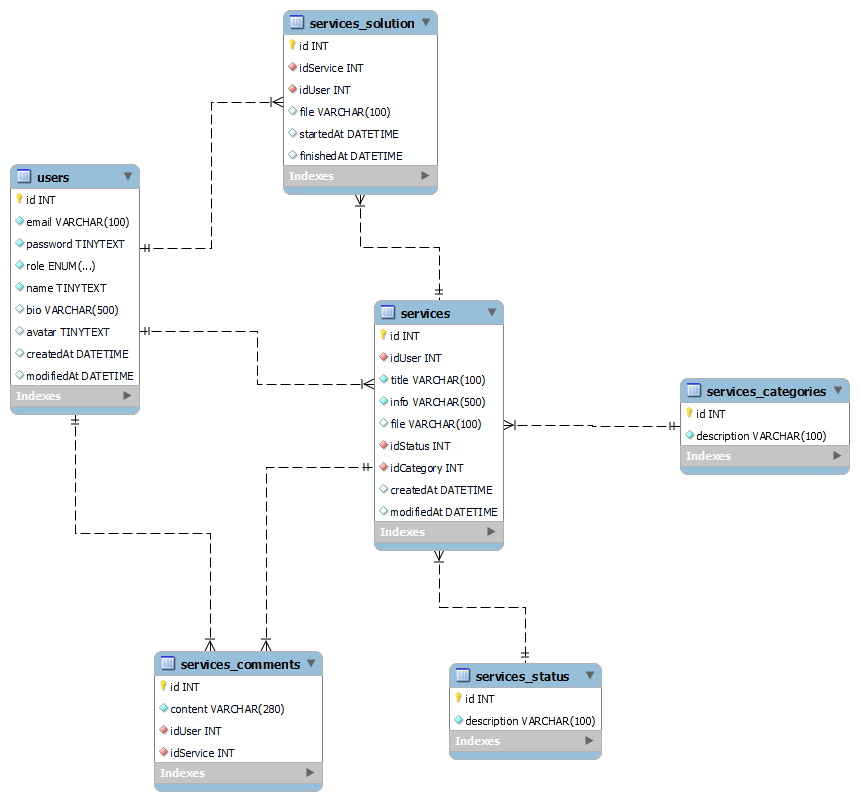
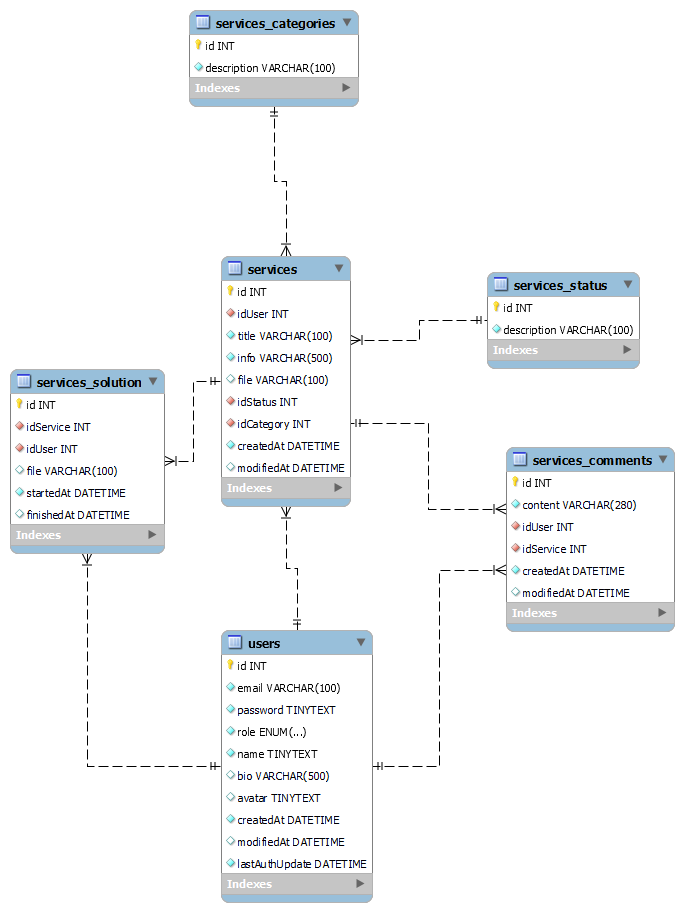
Añadiendo algunas correcciones

diff --git a/db/users.js b/db/users.js
@@ -6,12 +6,12 @@ const createUser = async (email, password, name) => {
   try {
     connection = await getConnection();
 
-    const passwordHash = encryptPassword(password);
+    const passwordHash = await encryptPassword(password);
     //Crear el usuario
     const [newUser] = await connection.query(
       `
-    INSERT INTO users (email,password,name)
-    VALUES (?,?,?)`,
+    INSERT INTO users (email,password,name,createdAt,lastAuthUpdate)
+    VALUES (?,?,?,UTC_TIMESTAMP,UTC_TIMESTAMP)`,
       [email, passwordHash, name]
     );
 
@@ -48,9 +48,10 @@ const getUserById = async (id) => {
 
     const [user] = await connection.query(
       `
-    SELECT id,email,password,name,bio,avatar,role,lastAuthUpdate
-    FROM users
-    WHERE id = ?`,
+      SELECT id,email,password,name,bio,avatar,role,
+      lastAuthUpdate,createdAt,modifiedAt
+      FROM users
+      WHERE id = ?`,
       [id]
     );
 
@@ -76,30 +77,35 @@ const editUserById = async (email, name, bio, avatar, id) => {
     if (connection) connection.release();
   }
 };
+
 const deleteUserById = async (id) => {
   let connection;
 
   try {
     connection = await getConnection();
     await connection.query(`START TRANSACTION`);
+    //Borramos todos los comentarios del usuario
     await connection.query(
       `
     DELETE FROM services_comments
     WHERE idUser = ?`,
       [id]
     );
+    //Borramos todas las soluciones asignadas al usuario
     await connection.query(
       `
     DELETE FROM solutions
     WHERE idUser = ?`,
       [id]
     );
+    //Borramos cualquier necesidad que haya generado el usuario
     await connection.query(
       `
     DELETE FROM services
     WHERE idUser = ?`,
       [id]
     );
+    //Borramos al usuario
     await connection.query(
       `
       DELETE FROM users 
@@ -107,6 +113,7 @@ const deleteUserById = async (id) => {
     `,
       [id]
     );
+    await connection.query(`COMMIT`);
   } catch (error) {
     await connection.query(`ROLLBACK`);
   } finally {

diff --git a/controllers/services/editServiceComment.js b/controllers/services/editServiceComment.js
@@ -1,8 +1,36 @@
+const { getServiceById, editServiceCommentById } = require('../../db/services');
+const { generateError } = require('../../helpers');
+const {
+  newServiceCommentSchema,
+  getServiceCommentSchema,
+} = require('../../validators/servicesValidators');
+
 const editServiceComment = async (req, res, next) => {
   try {
+    //Validamos los parametros
+    await getServiceCommentSchema.validateAsync(req.params);
+    //Validamos el body
+    await newServiceCommentSchema.validateAsync(req.body);
+    const { idService, idComment } = req.params;
+    const { content } = req.body;
+
+    //Comprobamos que existe el servicio
+    const service = await getServiceById(idService);
+    if (!service)
+      throw generateError(`No existe ningún servicio con id ${idService}`, 404);
+
+    //Comprobamos que el servicio esta Unassigned
+    if (service.status !== 'Unassigned')
+      throw generateError(
+        'El servicio ya está cubierto por un usuario, no se pueden editar los comentarios',
+        406
+      );
+
+    //Editamos el comentario
+    await editServiceCommentById(idService, idComment, content);
     res.send({
-      status: 'error',
-      message: 'Not implemented',
+      status: 'Ok',
+      message: 'Se editó el comentario',
     });
   } catch (error) {
     next(error);

diff --git a/server.js b/server.js
@@ -52,19 +52,19 @@ app.post('/users/login', loginUser);
 app.put('/users/:idUser', isUser, editUser);
 app.put('/users/:idUser/password', isUser, editUserPassword);
 app.delete('/users/:idUser', isUser, isAdmin, deleteUser);
-
-//Services endpoints
+//Services endpoints//
+//Services
 app.get('/services', listServices);
 app.get('/services/:idService', getService);
 app.post('/services', isUser, newService);
 app.put('/services/:idService', isUser, editService);
 app.delete('/services/:idService', isUser, deleteService);
-//Service solutions
+//Services solutions
 app.post('/services/:idService/solution', isUser, newServiceSolution);
 app.get('/services/:idService/solution', isUser, getServiceSolution);
 app.put('/services/:idService/solution', isUser, editServiceSolution);
 app.delete('/services/:idService/solution', isUser, deleteServiceSolution);
-//Service comments
+//Services comments
 app.post('/services/:idService/comments', isUser, newServiceComment);
 app.get('/services/:idService/comments/:idComment', getServiceComment);
 app.get('/services/:idService/comments', listServiceComments);

diff --git a/controllers/services/getService.js b/controllers/services/getService.js
@@ -5,22 +5,29 @@ const { idServiceSchema } = require('../../validators/servicesValidators');
 const getService = async (req, res, next) => {
   try {
     //Validamos los parámetros
-    await idServiceSchema(req.params);
+    await idServiceSchema.validateAsync(req.params);
     const { idService } = req.params;
 
-    const service = await getServiceById(idService);
-
     //Comprobamos que existe el servicio
+    const service = await getServiceById(idService);
     if (!service)
       throw generateError(
         `No existe ningún service con el id ${idService}`,
         404
       );
-
+    //Filtramos de la info devuelta solo los parámetros más necesarios
+    const serviceInfo = {
+      User: service.user,
+      Title: service.title,
+      Info: service.info,
+      File: service.file,
+      Category: service.category,
+      Status: service.status,
+    };
     //Devolvemos la información
     res.send({
       status: 'ok',
-      data: service,
+      data: serviceInfo,
     });
   } catch (error) {
     next(error);

diff --git a/db/services.js b/db/services.js
@@ -118,6 +118,7 @@ const deleteServiceById = async (idService) => {
       WHERE id = ?`,
       [idService]
     );
+    await connection.query(`COMMIT`);
   } catch (error) {
     await connection.query(`ROLLBACK`);
   } finally {
@@ -274,6 +275,24 @@ const createServiceComment = async (idUser, idService, content) => {
   }
 };
 
+const editServiceCommentById = async (idService, idComment, content) => {
+  let connection;
+  try {
+    connection = await getConnection();
+
+    const [newServiceComment] = await connection.query(
+      `
+      UPDATE services_comments 
+      SET content = ?
+      WHERE idService = ? AND idComment = ?
+    `,
+      [content, idService, idComment]
+    );
+    return newServiceComment.insertId;
+  } finally {
+    if (connection) connection.release();
+  }
+};
 const getServiceCommentById = async (idComment, idService) => {
   let connection;
   try {
@@ -341,4 +360,5 @@ module.exports = {
   deleteServiceSolutionById,
   getServiceCommentById,
   getServiceComments,
+  editServiceCommentById,
 };

diff --git a/validators/userValidators.js b/validators/userValidators.js
@@ -66,7 +66,7 @@ const editUserPasswordSchema = Joi.object().keys({
     .required()
     .error(
       generateError(
-        'El campo oldPassword debe existir y ser mayor de 8 caracteres',
+        'El campo oldPassword debe existir y ser mayor de 4 caracteres',
         400
       )
     ),
@@ -76,7 +76,7 @@ const editUserPasswordSchema = Joi.object().keys({
     .invalid(Joi.ref('oldPassword'))
     .error(
       generateError(
-        'El campo newPassword debe existir, ser diferente a oldPassword y ser mayor de 8 caracteres',
+        'El campo newPassword debe existir, ser diferente a oldPassword y ser mayor de 4 caracteres',
         400
       )
     ),

diff --git a/controllers/services/listServices.js b/controllers/services/listServices.js
@@ -30,9 +30,21 @@ const listServices = async (req, res, next) => {
     }
     //Recogemos el resultado de la query
     const data = await searchServices(search, orderBy, orderDirection);
+    //Filtramos la información devuelta
+    const servicesInfo = [];
+    for (const service of data) {
+      servicesInfo.push({
+        User: service.user,
+        Title: service.title,
+        Info: service.info,
+        File: service.file,
+        Category: service.category,
+        Status: service.status,
+      });
+    }
     res.send({
       status: 'Ok',
-      message: data,
+      message: servicesInfo,
     });
   } catch (error) {
     next(error);

diff --git a/controllers/services/newServiceComment.js b/controllers/services/newServiceComment.js
@@ -13,7 +13,7 @@ const newServiceComment = async (req, res, next) => {
     await newServiceCommentSchema.validateAsync(req.body);
 
     const { idService } = req.params;
-    const { idUser, content } = req.body;
+    const { content } = req.body;
 
     //Comprobamos que existe el servicio
     const service = await getServiceById(idService);
@@ -27,7 +27,7 @@ const newServiceComment = async (req, res, next) => {
         406
       );
     //Generamos el comentario
-    const id = await createServiceComment(idUser, idService, content);
+    const id = await createServiceComment(req.auth.id, idService, content);
 
     res.send({
       status: 'Ok',

diff --git a/validators/servicesValidators.js b/validators/servicesValidators.js
@@ -13,6 +13,7 @@ const idServiceSchema = Joi.object().keys({
       )
     ),
 });
+
 const serviceSchema = Joi.object().keys({
   title: Joi.string()
     .max(100)
@@ -44,16 +45,6 @@ const serviceSchema = Joi.object().keys({
 });
 
 const newServiceCommentSchema = Joi.object().keys({
-  idUser: Joi.number()
-    .positive()
-    .required()
-    .greater(0)
-    .error(
-      generateError(
-        'El campo idUser debe exisitir y debe ser un entero mayor que 0 ',
-        400
-      )
-    ),
   content: Joi.string()
     .required()
     .max(280)

diff --git a/controllers/users/deleteUser.js b/controllers/users/deleteUser.js
@@ -10,14 +10,6 @@ const deleteUser = async (req, res, next) => {
     //Validamos el id
     await idUserSchema.validateAsync(req.params);
 
-    //Comprobamos que el id del usuario que queremos modificar es
-    // el mismo que firma la petición o bien es un admin
-    if (req.auth.id !== Number(idUser) && req.auth.role !== 'admin')
-      throw generateError(
-        'No estas autorizado para modificar este usuario',
-        403
-      );
-
     //Verificamos que el usuario existe
     const user = await getUserById(idUser);
     if (!user)

diff --git a/controllers/users/getUser.js b/controllers/users/getUser.js
@@ -17,10 +17,10 @@ const getUser = async (req, res, next) => {
       throw generateError(`No existe ningún usuario con el id ${idUser}`, 404);
 
     const userInfo = {
-      name: user.name,
-      email: user.email,
-      avatar: user.avatar,
-      bio: user.bio,
+      Name: user.name,
+      Email: user.email,
+      Avatar: user.avatar,
+      Bio: user.bio,
     };
 
     res.send({

diff --git a/controllers/users/loginUser.js b/controllers/users/loginUser.js
@@ -19,7 +19,7 @@ const loginUser = async (req, res, next) => {
         404
       );
     //Comparamos las passwords
-    const validPassword = checkPassword(password, user.password);
+    const validPassword = await checkPassword(password, user.password);
 
     //Si la password no es valida...
     if (!validPassword) throw generateError('La contraseña no es válida', 401);
